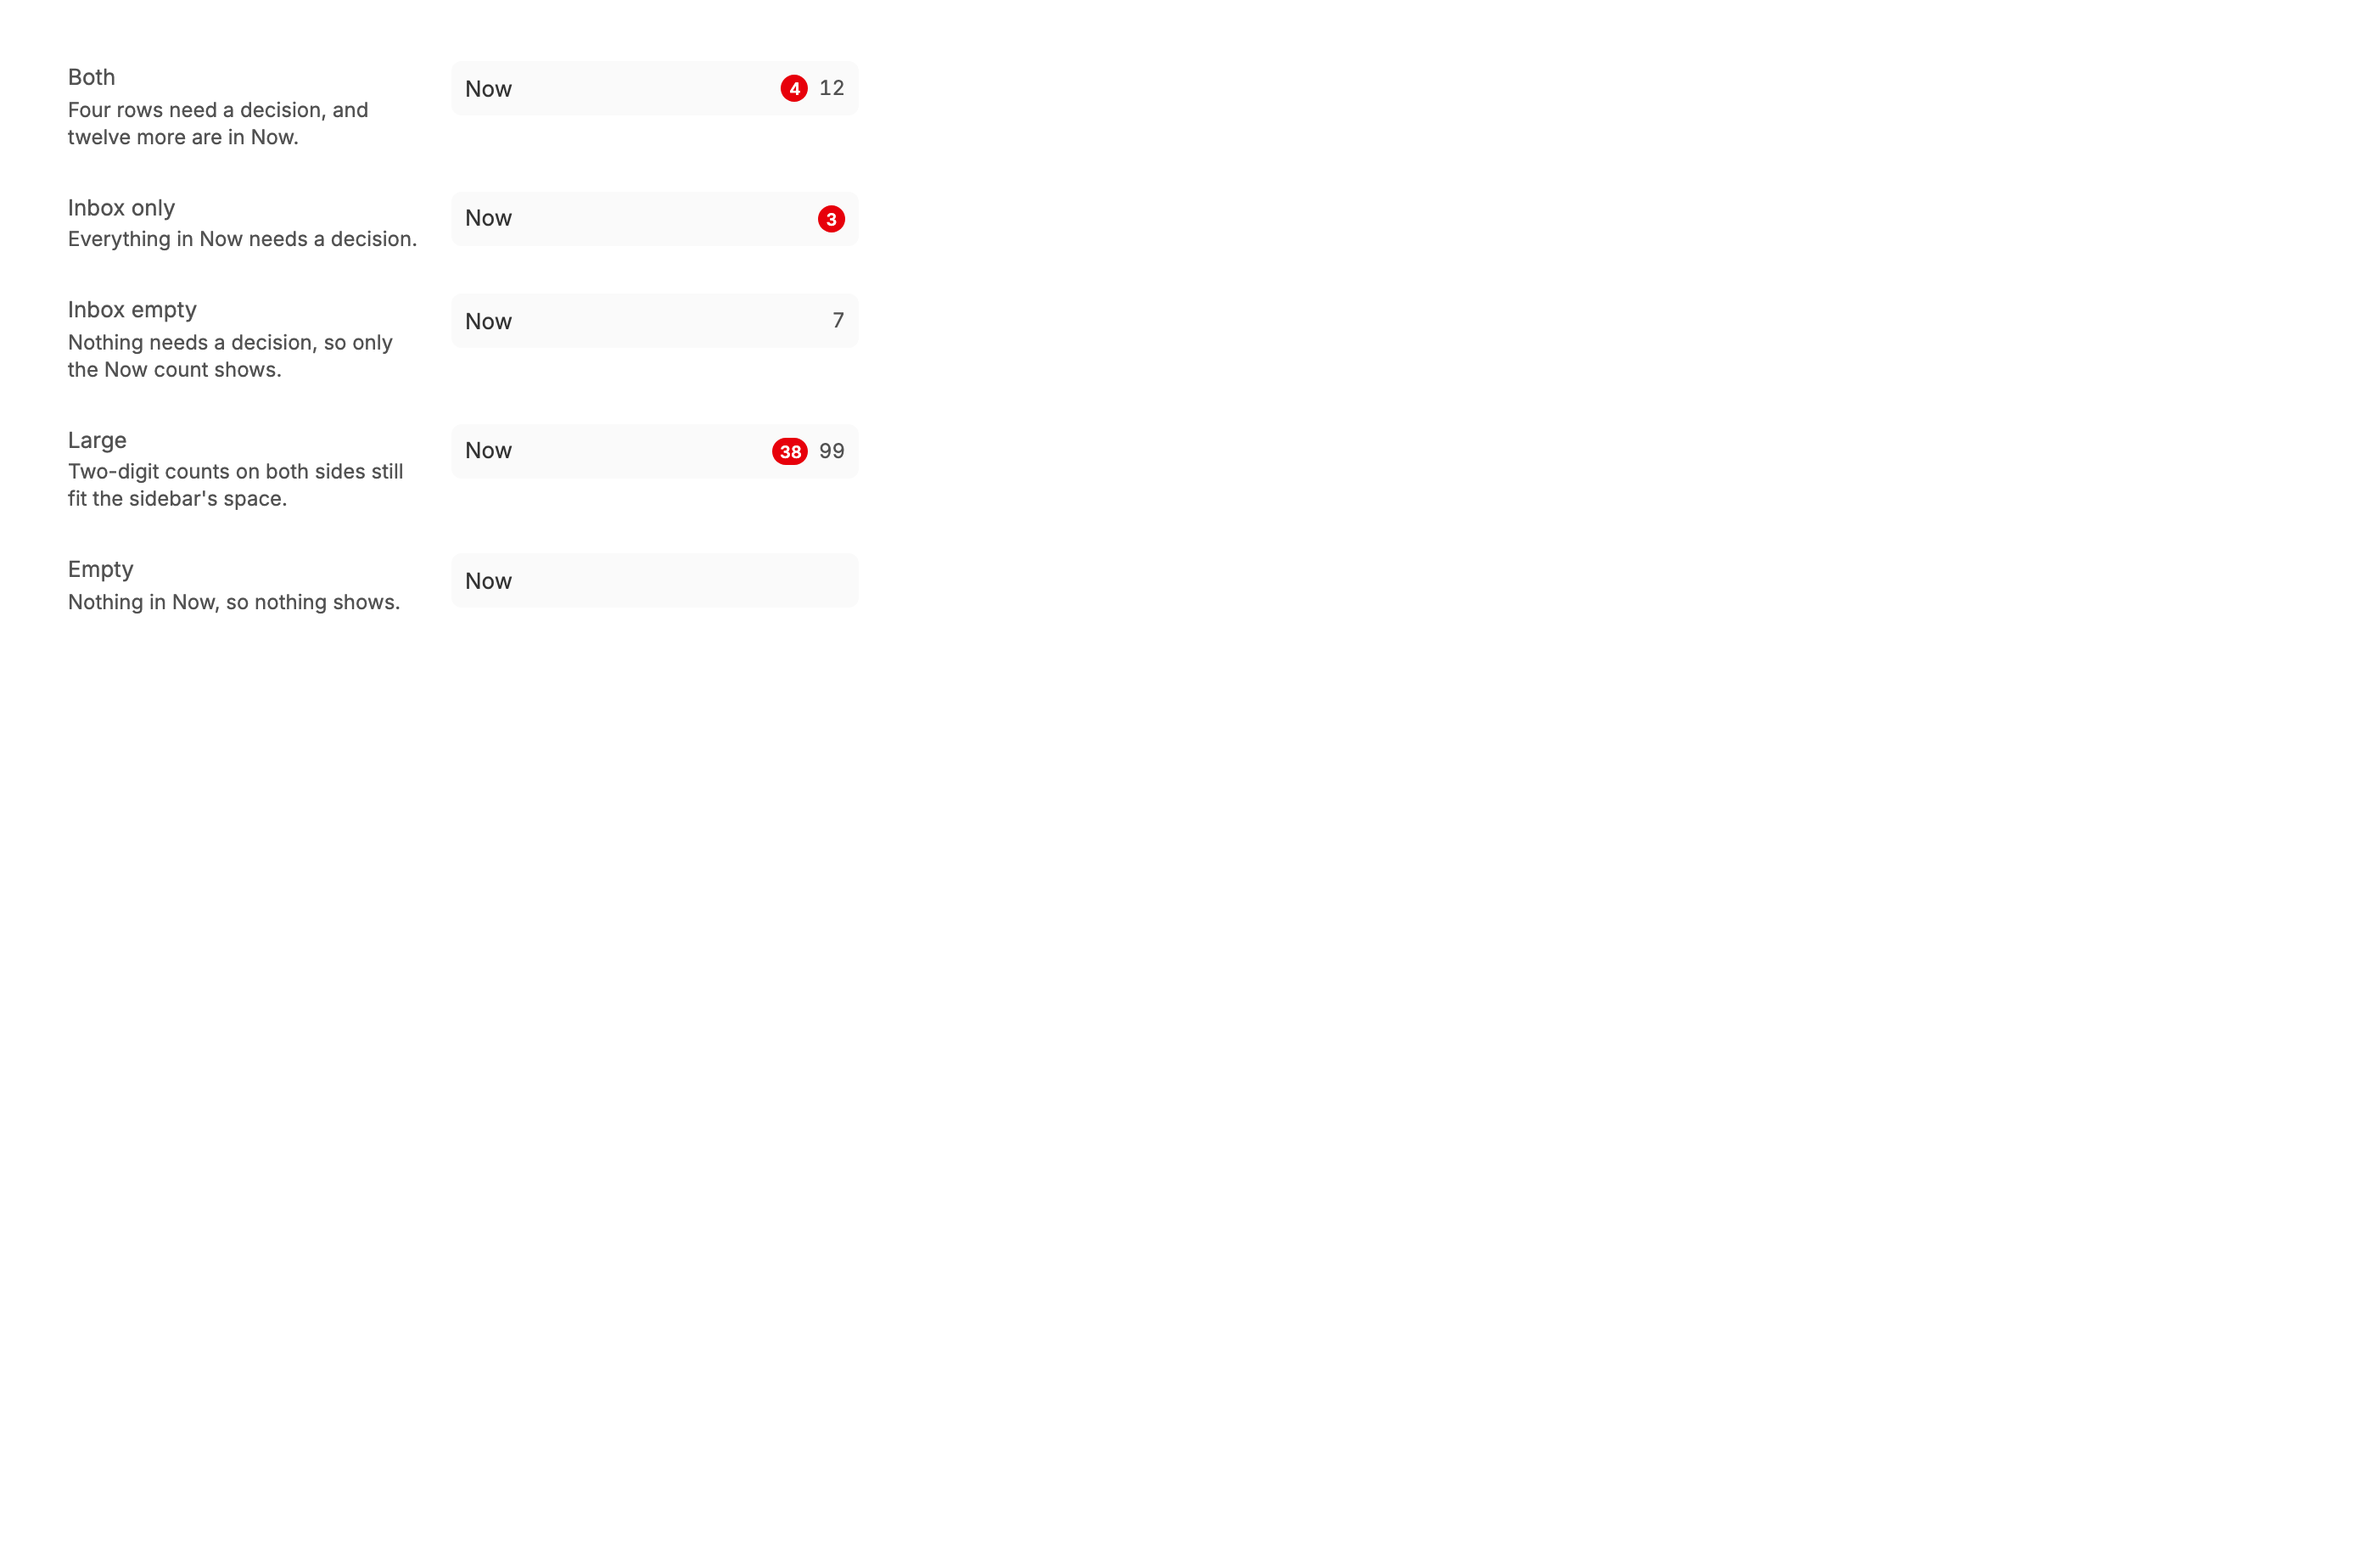
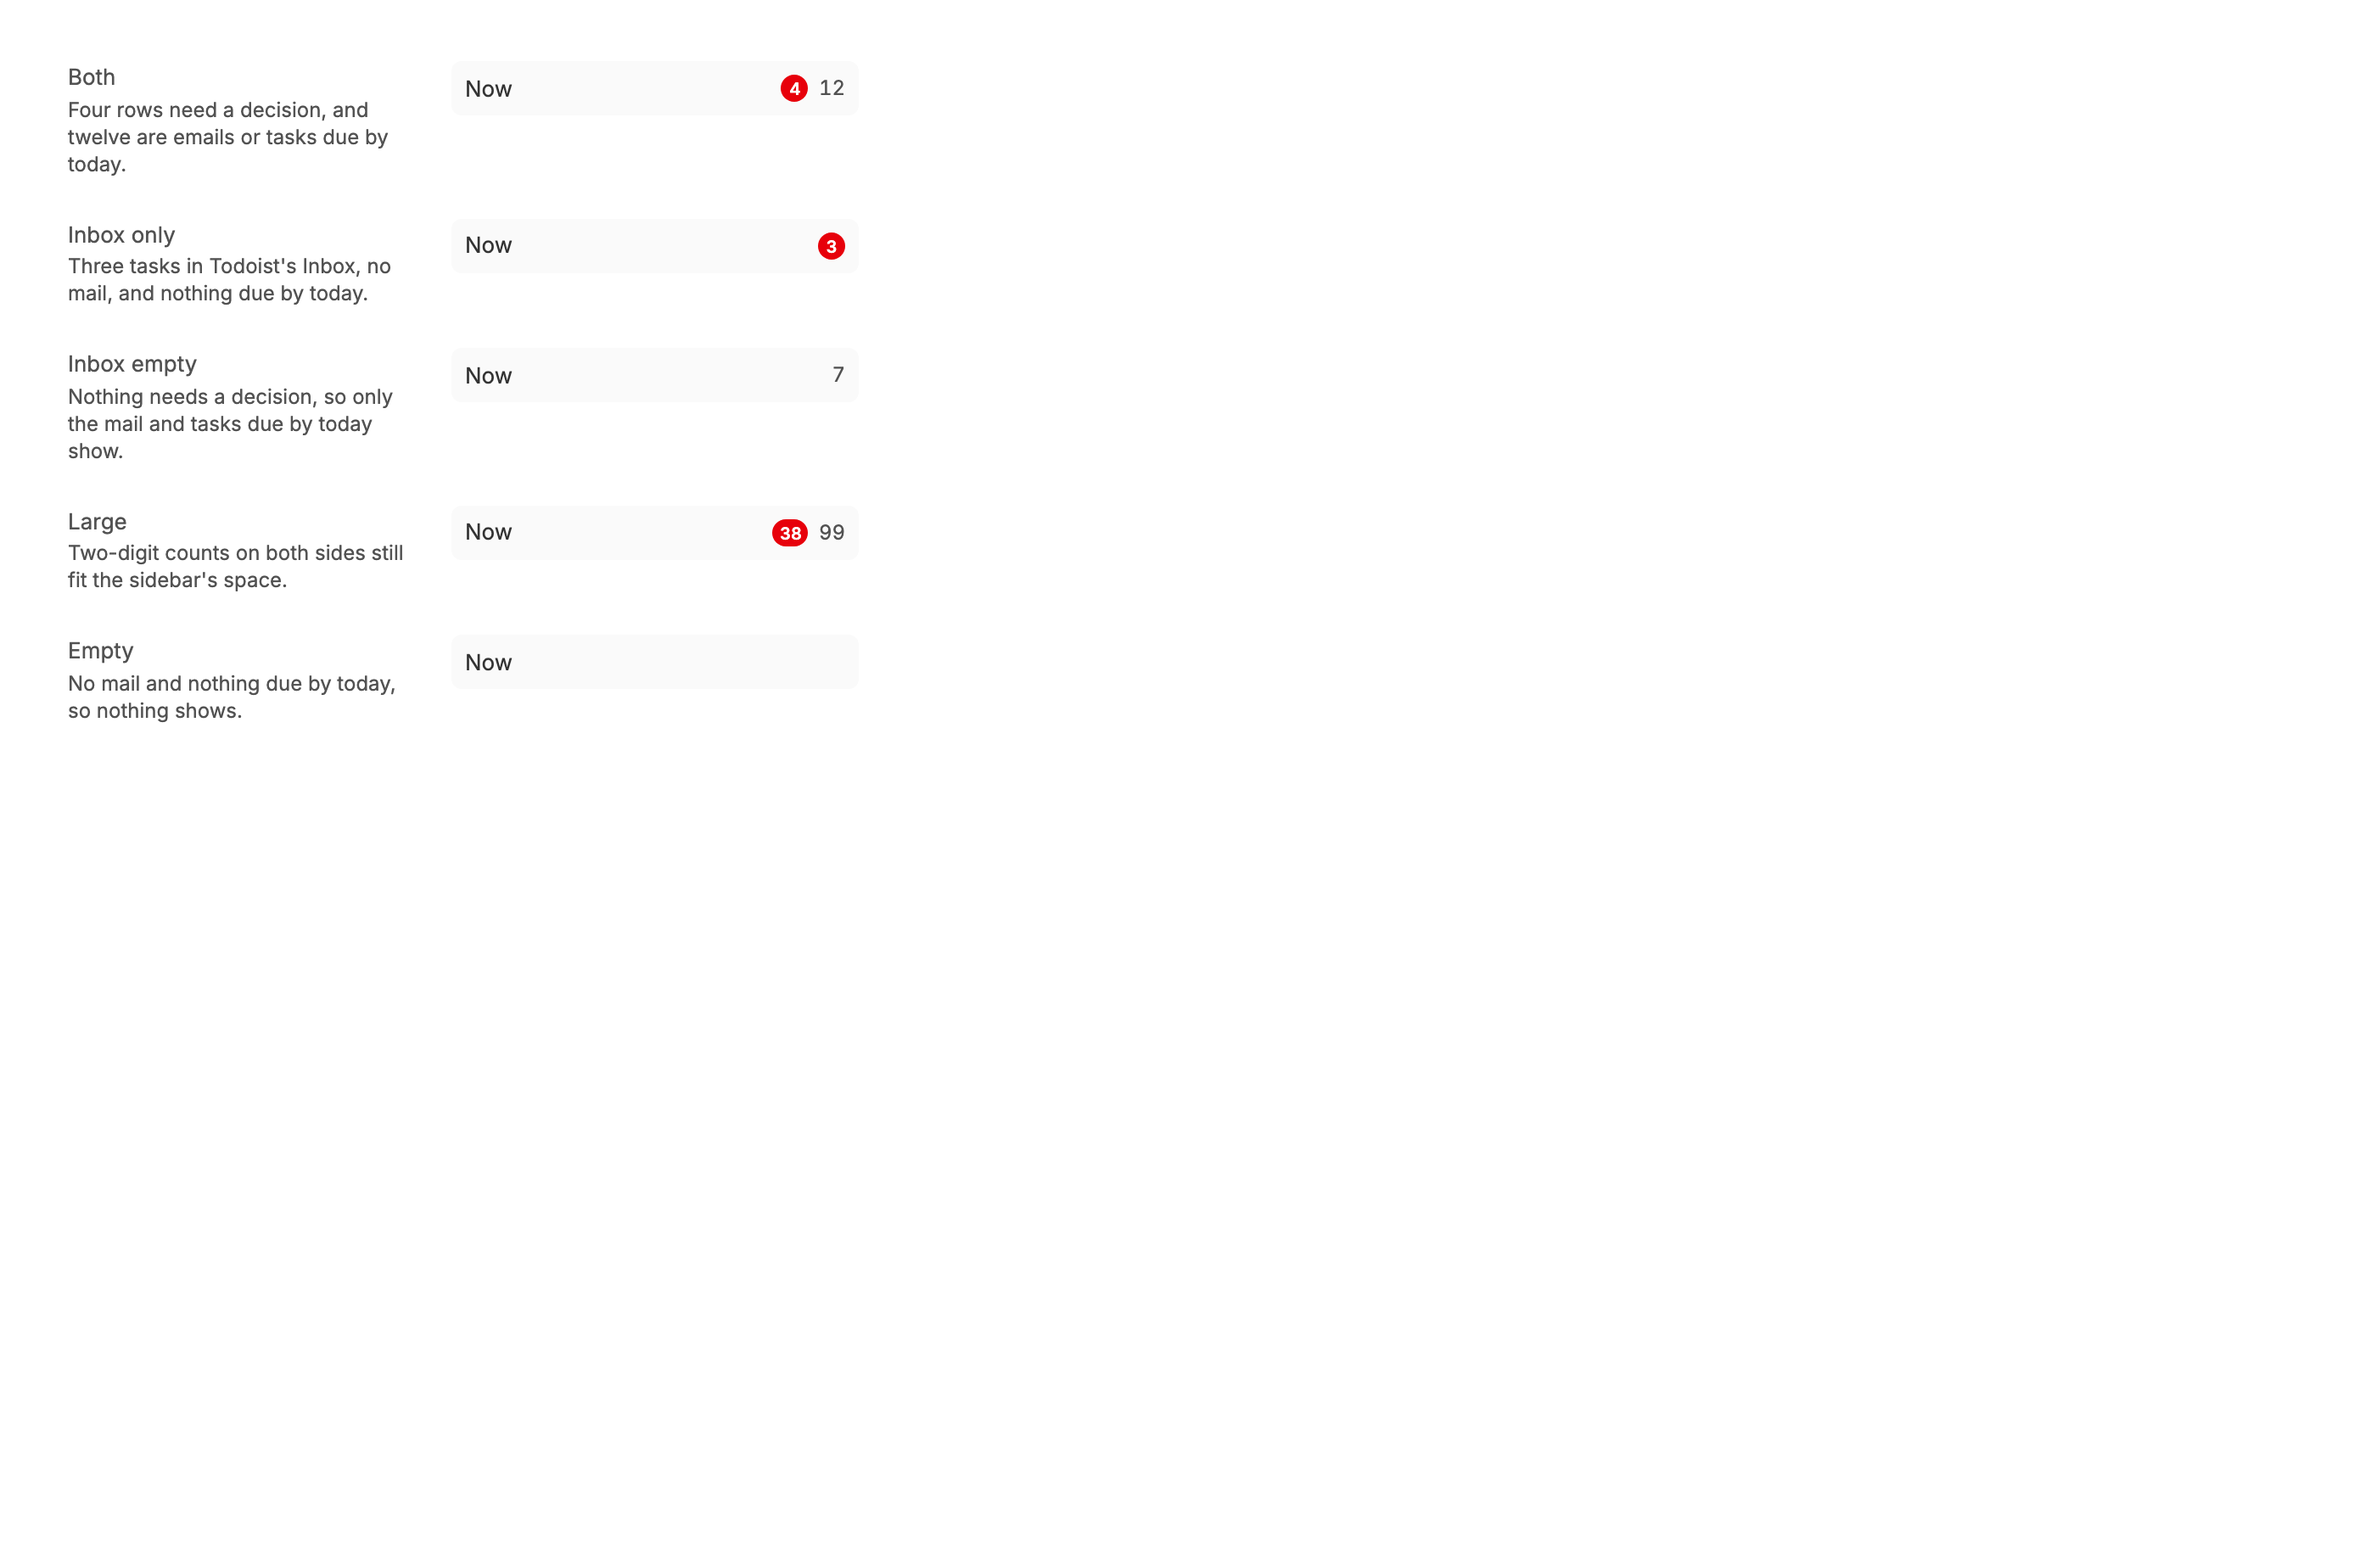
a86beec Count the Gmail inbox and the tasks due by today beside Now's inbox badge
danielbachhuber/bb-plugins@a86beecbba7b1e8e2d8c12380b9f50d17ddfd933

Captured with uncommitted changes in the bb-plugins checkout.

diff --git a/now/README.md b/now/README.md
@@ -26,6 +26,6 @@ Anytime, each source on its own, and both sections stacked.
 
 ### Default
 
-The counts beside Now in the sidebar: the inbox in a red circle, then the rest of the Now section.
+The counts beside Now in the sidebar: what needs a decision in a red circle, then the Gmail inbox plus the tasks overdue or due today.
 
 ![Default](sidebar-counts--default.png)
